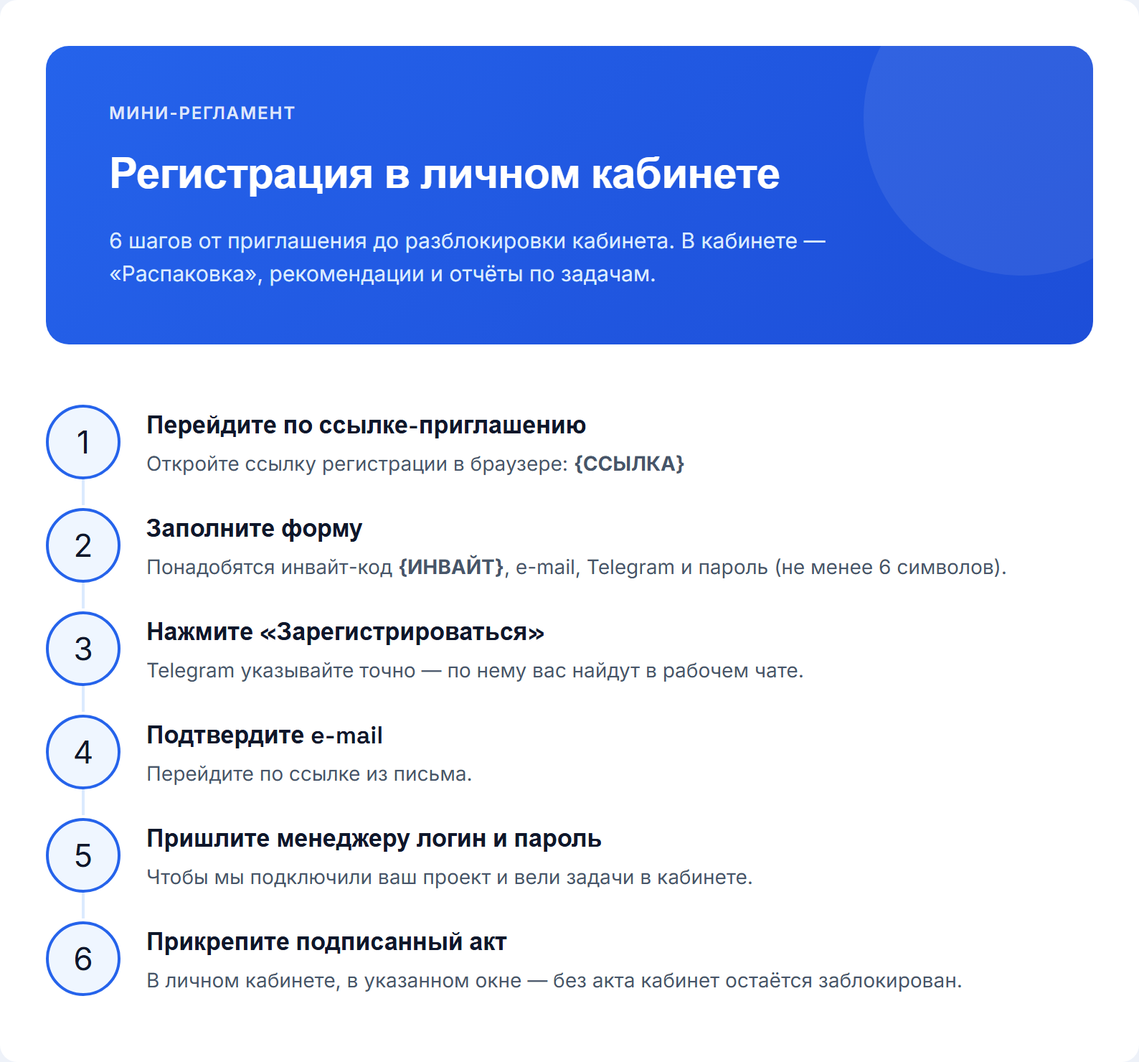
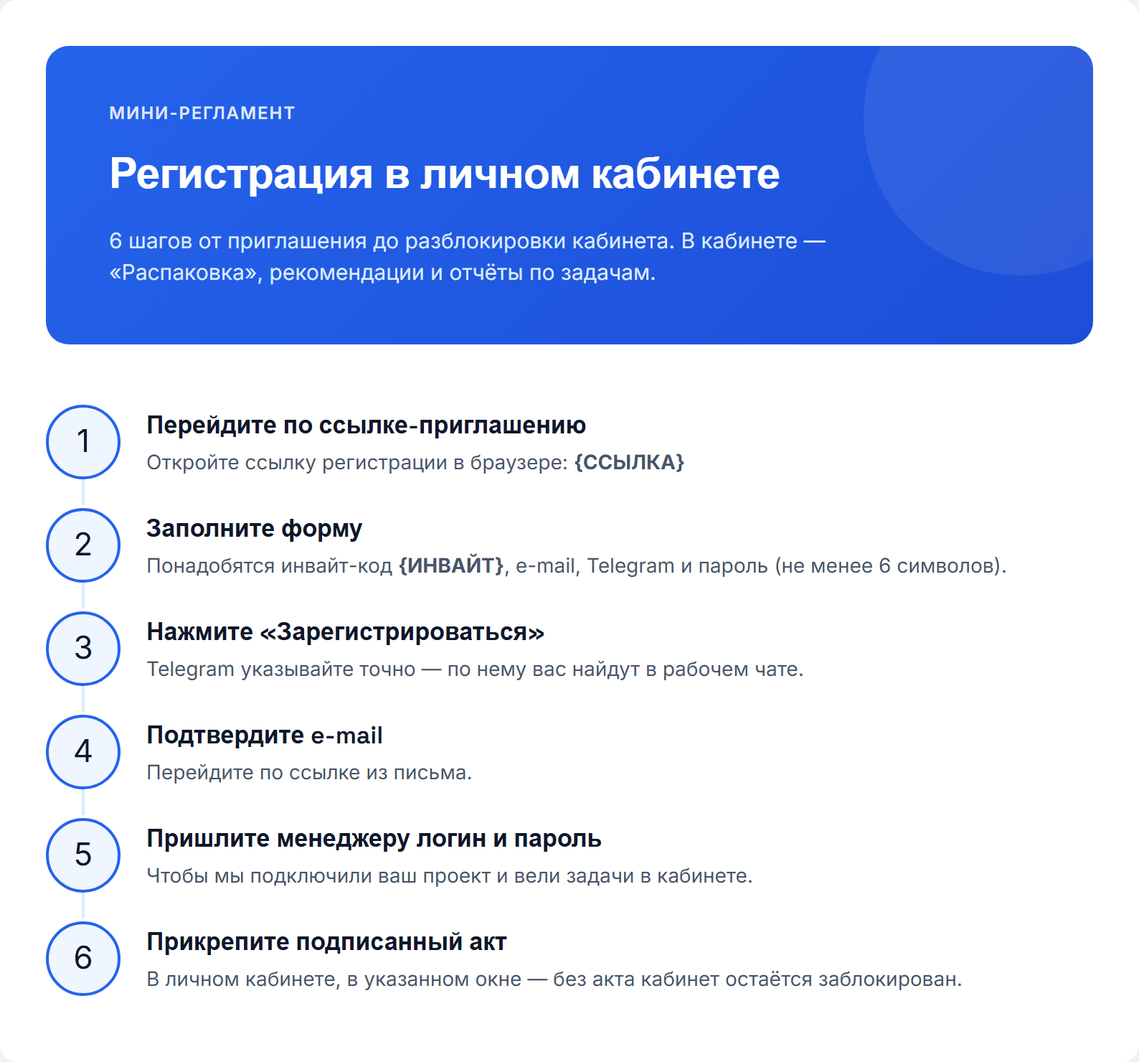
Add timeline to merged card

diff --git a/index.html b/index.html
@@ -130,13 +130,13 @@ pre{white-space:pre-wrap;word-wrap:break-word;font:14px/1.55 'Inter',sans-serif;
 4. Карточки на картах — до 3 рабочих дней
 Тексты и оформление для Яндекс Карт, 2ГИС и Google.
 
-5. Распаковка
+5. Распаковка — материалы получите после оплаты
 Рабочая тетрадь из 5 листов, уже заполненная по вашему брифу: финансовая модель на 12 месяцев, портреты клиентов, позиционирование и кейсы, цепочка из 10 касаний для прогрева, готовые скрипты, дорожная карта. Плюс план переговоров: сценарий разговора с клиентом на 20–40 минут, от знакомства до оплаты. Вы читаете и правите под себя.
 
-6. Рекомендации
+6. Рекомендации — материалы получите после оплаты
 5 сценариев для видео, 5 готовых постов и 5 сторис (по одному в день, как прогрев), готовые тексты для Яндекс Карт, 2ГИС, Авито, ВК, Юду и Яндекс Услуг. Тексты и сценарии готовим мы, публикуете вы у себя. Если соцсетей пока нет, создайте их и начните с нашего контента.
 
-7. Три дополнительных материала под ваш оффер
+7. Три дополнительных материала под ваш оффер — после оплаты
 Скрипты продаж (как вести диалог, называть цену, отвечать на «дорого» и «я подумаю»), продающая презентация с вашим УТП, скрипт холодных сообщений потенциальным клиентам.
 
 8. Ежемесячный отчёт
@@ -230,7 +230,7 @@ pre{white-space:pre-wrap;word-wrap:break-word;font:14px/1.55 'Inter',sans-serif;
 </section>
 </div>
 <script>
-const TEXTS=["Это рабочий чат — здесь будем вести ваш проект от сегодняшнего дня до поставленных задач.\n\nРады, что вы с нами 🙏","Ответьте на вопросы ниже — это нужно для точных целевых заявок. Нет ответа или не уверены — просто пропускайте. Можно голосовым.\n\n🏢 О БИЗНЕСЕ\n1. Сфера/ниша (напр.: психолог, брокер по новостройкам)\n2. Конкретное предложение — что продаёте (напр.: «Продвижение Instagram»)\n3. Город(а) работы\n4. Тип клиента: B2B / B2C / B2G\n\n📊 ПОКАЗАТЕЛИ\n5. Сколько клиентов сейчас в месяц (напр.: 5)\n6. Желаемая выручка в месяц (напр.: 700 000 ₽)\n7. Клиентский цикл (разовая покупка / подписка / долгий проект)\n\n💰 УСЛУГИ И ЦЕНЫ\n8. Список услуг с ценами, нумеруйте 8.1, 8.2...\nНапр.: 8.1 Курс — от 999 ₽, 8.2 Сессия 1.5ч — 7 500 ₽\n\n👤 АУДИТОРИЯ\n9. Портрет идеального клиента (напр.: «Женщины 25-35, Москва»)\n10. Главная боль аудитории (напр.: «Нет заявок с сайта»)\n11. Ключевое возражение (напр.: «Дорого»)\n12. Измеримый результат (напр.: «+40% заявок»)\n13. УТП (напр.: «Первый месяц бесплатно»)\n\n🔗 Ссылки: ВК, ТГ, Instagram, бот, сайт, YouTube/Рутуб","Пара терминов, которые будут встречаться в переписке — коротко объясняем:","Вот как человек проходит путь от поиска в Яндексе до обращения к вам.\n\nВажно: это путь через поисковое продвижение. Заявки приходят не мгновенно, а нарастают по мере того, как сайт набирает позиции.","Так будет работать бот: человек приходит по ссылке с сайта, проходит мини-игру, а в финале получает гайд. Задания и тексты согласуем с вами.","Здравствуйте! @{НИК_КЛИЕНТА}\n\nПосадочная страница/сайт: {ССЫЛКА_НА_САЙТ}\n\nЗаявки с сайта приходят в Telegram-бот — активируйте его по ссылке: {DEEP_LINK_БОТА}\n\n❗ Правки вносятся ТОЛЬКО один раз — соберите все в одно текстовое сообщение (скриншоты и голосовые не принимаются техспециалистом), если потребуется что-то поправить.\n\n❗ Если нужно добавить фото — присылайте ТОЛЬКО ссылкой на Яндекс.Диск с открытым доступом («доступно всем, у кого есть ссылка»), мы извлечём фото оттуда. По-другому техспециалист и программа файлы не принимают.\n\n❗ Когда напишете все правки, ОБЯЗАТЕЛЬНО добавьте фразу \"это всё\" — так мы поймём, что можно брать в работу.\n\nТакже нужно уточнить пару моментов:\n\n{УТОЧНЕНИЕ_1}\n{УТОЧНЕНИЕ_2}","Готов этап «Упаковка» — все материалы созданы.\n\nПожалуйста, посмотрите отчёт и напишите:\n«Принимаю» — если всё устраивает, переходим к следующему этапу","Здравствуйте! Предлагаем следующий шаг: перенести ваш сайт на собственный домен и запустить SEO-продвижение, чтобы заявки шли из поиска.\n\nСтоимость: 7 500 ₽, оплата разовая. В неё входит всё, что ниже (на картинке то же самое, со сроками).\n\nЧТО МЫ СДЕЛАЕМ\n\n1. Перенос сайта на ваш домен — 1–2 рабочих дня\nПодключим домен, включим защищённое соединение, настроим переадресацию со старого адреса, проверим формы, телефоны и бота. Пришлём ссылку на новый адрес.\n\n2. SEO-настройка — 3–5 рабочих дней после переноса\nПодберём запросы ваших клиентов, пропишем заголовки и описания, сделаем страницы под услуги, настроим технические файлы, подключим Яндекс Вебмастер, Google Search Console и Метрику. Пришлём список сделанного.\n\n3. Блог со статьями — от 1 статьи в неделю, начиная со 2-й недели\nСами пишем статьи под запросы вашей ниши и публикуем на сайте.\n\n4. Карточки на картах — до 3 рабочих дней\nТексты и оформление для Яндекс Карт, 2ГИС и Google.\n\n5. Распаковка\nРабочая тетрадь из 5 листов, уже заполненная по вашему брифу: финансовая модель на 12 месяцев, портреты клиентов, позиционирование и кейсы, цепочка из 10 касаний для прогрева, готовые скрипты, дорожная карта. Плюс план переговоров: сценарий разговора с клиентом на 20–40 минут, от знакомства до оплаты. Вы читаете и правите под себя.\n\n6. Рекомендации\n5 сценариев для видео, 5 готовых постов и 5 сторис (по одному в день, как прогрев), готовые тексты для Яндекс Карт, 2ГИС, Авито, ВК, Юду и Яндекс Услуг. Тексты и сценарии готовим мы, публикуете вы у себя. Если соцсетей пока нет, создайте их и начните с нашего контента.\n\n7. Три дополнительных материала под ваш оффер\nСкрипты продаж (как вести диалог, называть цену, отвечать на «дорого» и «я подумаю»), продающая презентация с вашим УТП, скрипт холодных сообщений потенциальным клиентам.\n\n8. Ежемесячный отчёт\nКаждый месяц присылаем короткий отчёт: сколько страниц в поиске, по каким запросам показывается сайт, сколько человек пришло и что планируем дальше.\n\nЗАЧЕМ СВОЙ ДОМЕН\nАдрес сайта — его фундамент: вся история, статьи и позиции копятся именно на нём. Свой домен принадлежит вам, внушает клиентам больше доверия и позволяет подключить фирменную почту. Подробно: https://murzzsite.github.io/domain-guide/\nВесь объём работ со скриншотами: https://murzzsite.github.io/seo-work-guide/\n\nЧЕСТНО О РЕЗУЛЬТАТЕ\nПервые заметные результаты в поиске обычно появляются через 2–4 месяца. Гарантировать позиции и число заявок нельзя: они зависят от конкуренции в вашей нише и регионе.\n\nХотите заявки уже в первые дни?\n— Яндекс Директ (реклама для тех, кто уже ищет вашу услугу): https://murzzsite.github.io/direct-guide/\n— VK Реклама (показ по интересам и возрасту во ВКонтакте): https://murzzsite.github.io/vk-ads-guide/\n\nЧТО ПО ОПЛАТЕ\n7 500 ₽ — разовая оплата за всё перечисленное выше. Домен оплачивается отдельно напрямую у регистратора, примерно 200–1 000 ₽ в год (чаще всего хватает 200 ₽). Порядок такой: оплата, затем покупка домена и перенос.\n\nЕсли вам подходит, напишите слово «домен» в ответ на это сообщение, и мы начнём.","Отлично, начинаем! 🙌\n\nОплатить перенос сайта и SEO-продвижение (7 500 ₽, оплата разовая) можно по ссылке: {ССЫЛКА_НА_ОПЛАТУ}\n\nВышлите чек в чат, как проведёте оплату, мы добавим в этот чат технического специалиста. Он поможет подобрать и зарегистрировать домен и сам перенесёт сайт. От вас потребуется только выбрать название. Домен оплачивается отдельно у регистратора, программист подскажет, где выгоднее.","Следующий шаг — купить домен на reg.ru. Домен оформляется на вас, это 10–15 минут.\n\nЗаранее предупреждаем: понадобятся Госуслуги. По Федеральному закону от 29.12.2025 № 569-ФЗ владелец домена в зонах .ru и .рф подтверждает личность через подтверждённую учётную запись Госуслуг (ЕСИА) — так государство исключает анонимные домены. Reg.ru может запросить это при покупке или позже, при продлении, поэтому подготовьте аккаунт Госуслуг и телефон заранее. Пароль от Госуслуг нам не нужен, не присылайте его никому: проверку вы проходите сами.\n\nПошаговая инструкция со всеми шагами: https://murzzsite.github.io/regru-guide/\n\nКоротко:\n1. Зайдите на reg.ru, найдите свободный адрес (лучше короткий, латиницей, зона .ru — около 200 ₽ в год).\n2. Добавьте домен в корзину, лишние услуги (хостинг, почту, защиту) уберите — они не нужны.\n3. Зарегистрируйтесь, заполните данные владельца, подтвердите личность через Госуслуги и оплатите.\n4. Пришлите сюда в чат логин и пароль от личного кабинета reg.ru и купленный адрес — программист сам подключит к нему ваш сайт.\n\nПосле переноса рекомендуем сменить пароль в кабинете reg.ru. Перенос занимает 1–2 рабочих дня с момента получения доступа.","Что нужно сделать дальше:\n\n1. Зарегистрируйтесь в личном кабинете по ссылке:\n{ССЫЛКА_НА_ПЛАТФОРМУ}\n\nИнвайт-код: {ИНВАЙТ_КОД}\n\n2. После регистрации подтвердите аккаунт через e-mail и пришлите нам логин и пароль — чтобы мы подключили ваш проект.\n\n3. Прикрепите в личном кабинете подписанный акт — без него кабинет остаётся заблокирован.\n\n4. В кабинете вы увидите раздел «Распаковка», рекомендации и отчёты по задачам.","Прикрепляем короткое видео, как работать в личном кабинете:\n{ССЫЛКА_НА_ПЛАТФОРМУ}\n\nЧто в видео:\n\n— Раздел «Распаковка» — фундамент: кто ваш клиент, чем вы отличаетесь, как продаёте.\nЧерновики уже готовы, нужно только поправить под себя.\n\n— Блок рекомендаций — что публиковать и куда, и как прикладывать отчёты.\n\nПосмотрите один раз полностью — дальше будет легко ориентироваться самим.\n\nПосле просмотра:\n1. Начните проходить задачи в блоке рекомендаций по порядку\n2. Прикладывайте отчёты к выполненным задачам — так быстрее проверим\n\nВопросы — пишите сюда 🙂","Если захотите получать заявки быстрее, чем набирает вес SEO, можно параллельно подключить платные каналы — это отдельный бюджет, подключаем только по вашему желанию.\n\nСписок и цены — на картинке. Пишите — согласуем и запустим."];
+const TEXTS=["Это рабочий чат — здесь будем вести ваш проект от сегодняшнего дня до поставленных задач.\n\nРады, что вы с нами 🙏","Ответьте на вопросы ниже — это нужно для точных целевых заявок. Нет ответа или не уверены — просто пропускайте. Можно голосовым.\n\n🏢 О БИЗНЕСЕ\n1. Сфера/ниша (напр.: психолог, брокер по новостройкам)\n2. Конкретное предложение — что продаёте (напр.: «Продвижение Instagram»)\n3. Город(а) работы\n4. Тип клиента: B2B / B2C / B2G\n\n📊 ПОКАЗАТЕЛИ\n5. Сколько клиентов сейчас в месяц (напр.: 5)\n6. Желаемая выручка в месяц (напр.: 700 000 ₽)\n7. Клиентский цикл (разовая покупка / подписка / долгий проект)\n\n💰 УСЛУГИ И ЦЕНЫ\n8. Список услуг с ценами, нумеруйте 8.1, 8.2...\nНапр.: 8.1 Курс — от 999 ₽, 8.2 Сессия 1.5ч — 7 500 ₽\n\n👤 АУДИТОРИЯ\n9. Портрет идеального клиента (напр.: «Женщины 25-35, Москва»)\n10. Главная боль аудитории (напр.: «Нет заявок с сайта»)\n11. Ключевое возражение (напр.: «Дорого»)\n12. Измеримый результат (напр.: «+40% заявок»)\n13. УТП (напр.: «Первый месяц бесплатно»)\n\n🔗 Ссылки: ВК, ТГ, Instagram, бот, сайт, YouTube/Рутуб","Пара терминов, которые будут встречаться в переписке — коротко объясняем:","Вот как человек проходит путь от поиска в Яндексе до обращения к вам.\n\nВажно: это путь через поисковое продвижение. Заявки приходят не мгновенно, а нарастают по мере того, как сайт набирает позиции.","Так будет работать бот: человек приходит по ссылке с сайта, проходит мини-игру, а в финале получает гайд. Задания и тексты согласуем с вами.","Здравствуйте! @{НИК_КЛИЕНТА}\n\nПосадочная страница/сайт: {ССЫЛКА_НА_САЙТ}\n\nЗаявки с сайта приходят в Telegram-бот — активируйте его по ссылке: {DEEP_LINK_БОТА}\n\n❗ Правки вносятся ТОЛЬКО один раз — соберите все в одно текстовое сообщение (скриншоты и голосовые не принимаются техспециалистом), если потребуется что-то поправить.\n\n❗ Если нужно добавить фото — присылайте ТОЛЬКО ссылкой на Яндекс.Диск с открытым доступом («доступно всем, у кого есть ссылка»), мы извлечём фото оттуда. По-другому техспециалист и программа файлы не принимают.\n\n❗ Когда напишете все правки, ОБЯЗАТЕЛЬНО добавьте фразу \"это всё\" — так мы поймём, что можно брать в работу.\n\nТакже нужно уточнить пару моментов:\n\n{УТОЧНЕНИЕ_1}\n{УТОЧНЕНИЕ_2}","Готов этап «Упаковка» — все материалы созданы.\n\nПожалуйста, посмотрите отчёт и напишите:\n«Принимаю» — если всё устраивает, переходим к следующему этапу","Здравствуйте! Предлагаем следующий шаг: перенести ваш сайт на собственный домен и запустить SEO-продвижение, чтобы заявки шли из поиска.\n\nСтоимость: 7 500 ₽, оплата разовая. В неё входит всё, что ниже (на картинке то же самое, со сроками).\n\nЧТО МЫ СДЕЛАЕМ\n\n1. Перенос сайта на ваш домен — 1–2 рабочих дня\nПодключим домен, включим защищённое соединение, настроим переадресацию со старого адреса, проверим формы, телефоны и бота. Пришлём ссылку на новый адрес.\n\n2. SEO-настройка — 3–5 рабочих дней после переноса\nПодберём запросы ваших клиентов, пропишем заголовки и описания, сделаем страницы под услуги, настроим технические файлы, подключим Яндекс Вебмастер, Google Search Console и Метрику. Пришлём список сделанного.\n\n3. Блог со статьями — от 1 статьи в неделю, начиная со 2-й недели\nСами пишем статьи под запросы вашей ниши и публикуем на сайте.\n\n4. Карточки на картах — до 3 рабочих дней\nТексты и оформление для Яндекс Карт, 2ГИС и Google.\n\n5. Распаковка — материалы получите после оплаты\nРабочая тетрадь из 5 листов, уже заполненная по вашему брифу: финансовая модель на 12 месяцев, портреты клиентов, позиционирование и кейсы, цепочка из 10 касаний для прогрева, готовые скрипты, дорожная карта. Плюс план переговоров: сценарий разговора с клиентом на 20–40 минут, от знакомства до оплаты. Вы читаете и правите под себя.\n\n6. Рекомендации — материалы получите после оплаты\n5 сценариев для видео, 5 готовых постов и 5 сторис (по одному в день, как прогрев), готовые тексты для Яндекс Карт, 2ГИС, Авито, ВК, Юду и Яндекс Услуг. Тексты и сценарии готовим мы, публикуете вы у себя. Если соцсетей пока нет, создайте их и начните с нашего контента.\n\n7. Три дополнительных материала под ваш оффер — после оплаты\nСкрипты продаж (как вести диалог, называть цену, отвечать на «дорого» и «я подумаю»), продающая презентация с вашим УТП, скрипт холодных сообщений потенциальным клиентам.\n\n8. Ежемесячный отчёт\nКаждый месяц присылаем короткий отчёт: сколько страниц в поиске, по каким запросам показывается сайт, сколько человек пришло и что планируем дальше.\n\nЗАЧЕМ СВОЙ ДОМЕН\nАдрес сайта — его фундамент: вся история, статьи и позиции копятся именно на нём. Свой домен принадлежит вам, внушает клиентам больше доверия и позволяет подключить фирменную почту. Подробно: https://murzzsite.github.io/domain-guide/\nВесь объём работ со скриншотами: https://murzzsite.github.io/seo-work-guide/\n\nЧЕСТНО О РЕЗУЛЬТАТЕ\nПервые заметные результаты в поиске обычно появляются через 2–4 месяца. Гарантировать позиции и число заявок нельзя: они зависят от конкуренции в вашей нише и регионе.\n\nХотите заявки уже в первые дни?\n— Яндекс Директ (реклама для тех, кто уже ищет вашу услугу): https://murzzsite.github.io/direct-guide/\n— VK Реклама (показ по интересам и возрасту во ВКонтакте): https://murzzsite.github.io/vk-ads-guide/\n\nЧТО ПО ОПЛАТЕ\n7 500 ₽ — разовая оплата за всё перечисленное выше. Домен оплачивается отдельно напрямую у регистратора, примерно 200–1 000 ₽ в год (чаще всего хватает 200 ₽). Порядок такой: оплата, затем покупка домена и перенос.\n\nЕсли вам подходит, напишите слово «домен» в ответ на это сообщение, и мы начнём.","Отлично, начинаем! 🙌\n\nОплатить перенос сайта и SEO-продвижение (7 500 ₽, оплата разовая) можно по ссылке: {ССЫЛКА_НА_ОПЛАТУ}\n\nВышлите чек в чат, как проведёте оплату, мы добавим в этот чат технического специалиста. Он поможет подобрать и зарегистрировать домен и сам перенесёт сайт. От вас потребуется только выбрать название. Домен оплачивается отдельно у регистратора, программист подскажет, где выгоднее.","Следующий шаг — купить домен на reg.ru. Домен оформляется на вас, это 10–15 минут.\n\nЗаранее предупреждаем: понадобятся Госуслуги. По Федеральному закону от 29.12.2025 № 569-ФЗ владелец домена в зонах .ru и .рф подтверждает личность через подтверждённую учётную запись Госуслуг (ЕСИА) — так государство исключает анонимные домены. Reg.ru может запросить это при покупке или позже, при продлении, поэтому подготовьте аккаунт Госуслуг и телефон заранее. Пароль от Госуслуг нам не нужен, не присылайте его никому: проверку вы проходите сами.\n\nПошаговая инструкция со всеми шагами: https://murzzsite.github.io/regru-guide/\n\nКоротко:\n1. Зайдите на reg.ru, найдите свободный адрес (лучше короткий, латиницей, зона .ru — около 200 ₽ в год).\n2. Добавьте домен в корзину, лишние услуги (хостинг, почту, защиту) уберите — они не нужны.\n3. Зарегистрируйтесь, заполните данные владельца, подтвердите личность через Госуслуги и оплатите.\n4. Пришлите сюда в чат логин и пароль от личного кабинета reg.ru и купленный адрес — программист сам подключит к нему ваш сайт.\n\nПосле переноса рекомендуем сменить пароль в кабинете reg.ru. Перенос занимает 1–2 рабочих дня с момента получения доступа.","Что нужно сделать дальше:\n\n1. Зарегистрируйтесь в личном кабинете по ссылке:\n{ССЫЛКА_НА_ПЛАТФОРМУ}\n\nИнвайт-код: {ИНВАЙТ_КОД}\n\n2. После регистрации подтвердите аккаунт через e-mail и пришлите нам логин и пароль — чтобы мы подключили ваш проект.\n\n3. Прикрепите в личном кабинете подписанный акт — без него кабинет остаётся заблокирован.\n\n4. В кабинете вы увидите раздел «Распаковка», рекомендации и отчёты по задачам.","Прикрепляем короткое видео, как работать в личном кабинете:\n{ССЫЛКА_НА_ПЛАТФОРМУ}\n\nЧто в видео:\n\n— Раздел «Распаковка» — фундамент: кто ваш клиент, чем вы отличаетесь, как продаёте.\nЧерновики уже готовы, нужно только поправить под себя.\n\n— Блок рекомендаций — что публиковать и куда, и как прикладывать отчёты.\n\nПосмотрите один раз полностью — дальше будет легко ориентироваться самим.\n\nПосле просмотра:\n1. Начните проходить задачи в блоке рекомендаций по порядку\n2. Прикладывайте отчёты к выполненным задачам — так быстрее проверим\n\nВопросы — пишите сюда 🙂","Если захотите получать заявки быстрее, чем набирает вес SEO, можно параллельно подключить платные каналы — это отдельный бюджет, подключаем только по вашему желанию.\n\nСписок и цены — на картинке. Пишите — согласуем и запустим."];
 document.querySelectorAll('.btn').forEach(b=>b.onclick=async()=>{
   const t=TEXTS[b.dataset.i];
   try{await navigator.clipboard.writeText(t);b.textContent='Скопировано ✓';}
